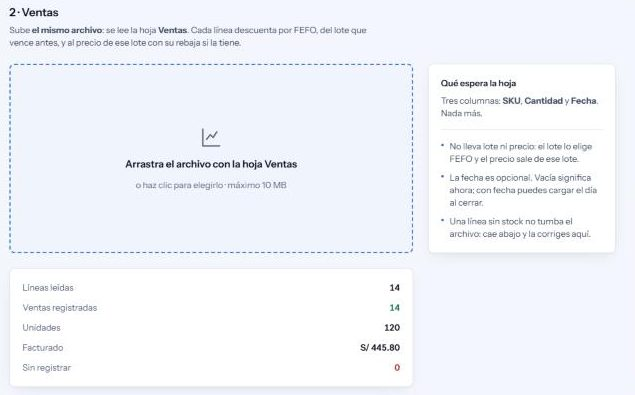
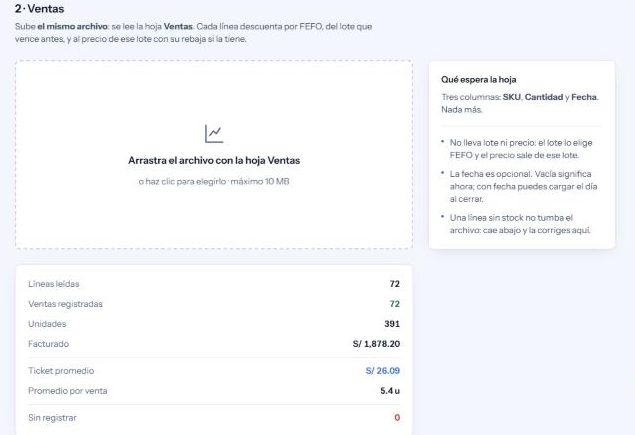
fix(demo): las ventas de ejemplo apuntaban a cinco SKU inexistentes
BEB-VOL-010, BEB-CIF-014, LAC-NES-011, LIC-CRI-004 y BEB-SCA-009 estaban en la hoja Ventas pero nunca se daban de alta en la de Inventario, asi que la carga entraba 67 de 72 y el evaluador veia cinco filas en cuarentena en su primer intento. Se sustituyen por los SKU reales a los que se parecen, de la misma familia y con stock de sobra.

El generador escribe las dos listas a mano y nada comprobaba que cuadraran. Ahora falla al generar si una venta apunta a un SKU que no existe o si la SUMA por SKU se pasa del stock -lo que agota un lote es el total de los cinco dias, no la venta mas grande-. Verificado introduciendo ambos errores a proposito.

Tamano del archivo en la pagina y captura del README, al dia.

diff --git a/src/main/resources/static/index.html b/src/main/resources/static/index.html
@@ -874,7 +874,7 @@
             </svg>
             Descargar un Excel de ejemplo
           </a>
-          <p class="mt-1 text-xs text-ink-faint">88 productos · 72 ventas en 8 familias · 16 KB</p>
+          <p class="mt-1 text-xs text-ink-faint">88 productos · 72 ventas en 8 familias · 14 KB</p>
         </div>
       </div>
 

diff --git a/tools/GenerateSampleInventory.java b/tools/GenerateSampleInventory.java
@@ -7,6 +7,8 @@ import java.nio.file.Files;
 import java.nio.file.Path;
 import java.time.LocalDate;
 import java.util.ArrayList;
+import java.util.LinkedHashMap;
+import java.util.Map;
 import java.util.List;
 import org.dhatim.fastexcel.Workbook;
 import org.dhatim.fastexcel.Worksheet;
@@ -405,7 +407,7 @@ public class GenerateSampleInventory {
         sales.add(new Sale("BEB-INC-001", 12, 3, true));
         sales.add(new Sale("BEB-INC-002", 5, 3, true));
         sales.add(new Sale("BEB-COC-003", 9, 3, true));
-        sales.add(new Sale("BEB-VOL-010", 6, 3, true));
+        sales.add(new Sale("BEB-GAT-010", 6, 3, true));
         sales.add(new Sale("SNK-PRI-008", 6, 3, true));
         sales.add(new Sale("SNK-DOR-003", 4, 3, true));
         sales.add(new Sale("LAC-GLO-001", 5, 3, true));
@@ -421,26 +423,26 @@ public class GenerateSampleInventory {
         // Hace 2 días
         sales.add(new Sale("BEB-INC-001", 10, 2, true));
         sales.add(new Sale("BEB-SMA-008", 5, 2, true));
-        sales.add(new Sale("BEB-CIF-014", 7, 2, true));
+        sales.add(new Sale("BEB-CIF-011", 7, 2, true));
         sales.add(new Sale("SNK-SUB-007", 7, 2, true));
         sales.add(new Sale("SNK-CAS-011", 5, 2, true));
         sales.add(new Sale("SNK-SOD-013", 6, 2, true));
         sales.add(new Sale("LAC-GLO-002", 4, 2, true));
-        sales.add(new Sale("LAC-NES-011", 3, 2, true));
+        sales.add(new Sale("LAC-GLO-008", 3, 2, true));
         sales.add(new Sale("EMB-BRA-003", 2, 2, true));
         sales.add(new Sale("EMB-SFE-005", 2, 2, true));
         sales.add(new Sale("PAN-BIM-001", 2, 2, true));
         sales.add(new Sale("PAN-BIM-006", 3, 2, true));
         sales.add(new Sale("ABA-COS-001", 8, 2, true));
         sales.add(new Sale("ABA-ALA-009", 4, 2, true));
-        sales.add(new Sale("LIC-CRI-004", 8, 2, true));
+        sales.add(new Sale("LIC-CRI-005", 8, 2, true));
         sales.add(new Sale("LIM-DOV-004", 4, 2, true));
 
         // Ayer
         sales.add(new Sale("BEB-INC-001", 14, 1, true));
         sales.add(new Sale("BEB-COC-003", 10, 1, true));
         sales.add(new Sale("BEB-COC-004", 4, 1, true));
-        sales.add(new Sale("BEB-SCA-009", 8, 1, true));
+        sales.add(new Sale("BEB-SPO-009", 8, 1, true));
         sales.add(new Sale("SNK-TRI-009", 6, 1, true));
         sales.add(new Sale("SNK-PEP-012", 4, 1, true));
         sales.add(new Sale("LAC-GLO-001", 6, 1, true));
@@ -507,6 +509,7 @@ public class GenerateSampleInventory {
                 rowIdx++;
             }
 
+            verificarVentasContraInventario(items, sampleSales());
             writeSalesSheet(workbook, today);
 
             workbook.finish();
@@ -521,6 +524,55 @@ public class GenerateSampleInventory {
      * modo que mientras Inventario sea la primera, la ingesta de inventario no
      * nota que este libro trae una hoja mas. La de ventas se pide por nombre.
      */
+    /**
+     * Comprueba que cada venta se puede atender con lo que siembra Inventario.
+     *
+     * <p><b>Por que existe.</b> Las dos listas se escriben a mano y viven a 300
+     * lineas de distancia: es facil teclear un SKU que no existe -o repetir uno
+     * hasta pasarse de su stock- y que el archivo salga igual de bien formado.
+     * El fallo no aparece aqui sino en la demo del evaluador, como filas en
+     * cuarentena, que es el peor sitio donde puede aparecer.
+     *
+     * <p>Ya paso: cinco ventas apuntaban a SKU que nadie daba de alta
+     * (BEB-VOL-010, BEB-CIF-014, LAC-NES-011, LIC-CRI-004, BEB-SCA-009) y la
+     * carga entraba 67 de 72.
+     *
+     * <p>Se comprueba la SUMA por SKU y no cada linea: lo que agota un lote es
+     * el total de los cinco dias, no la venta mas grande.
+     */
+    private static void verificarVentasContraInventario(List<Item> items, List<Sale> sales) {
+        Map<String, Integer> stock = new LinkedHashMap<>();
+        for (Item it : items) {
+            stock.merge(it.sku(), it.qty(), Integer::sum);
+        }
+
+        Map<String, Integer> pedido = new LinkedHashMap<>();
+        for (Sale s : sales) {
+            pedido.merge(s.sku(), s.qty(), Integer::sum);
+        }
+
+        List<String> problemas = new ArrayList<>();
+        for (Map.Entry<String, Integer> e : pedido.entrySet()) {
+            Integer hay = stock.get(e.getKey());
+            if (hay == null) {
+                problemas.add("  " + e.getKey() + ": se vende pero no esta en Inventario");
+            } else if (e.getValue() > hay) {
+                problemas.add("  " + e.getKey() + ": se venden " + e.getValue()
+                        + " y solo hay " + hay);
+            }
+        }
+
+        if (!problemas.isEmpty()) {
+            throw new IllegalStateException(
+                    "La hoja Ventas no cuadra con la de Inventario:\n"
+                            + String.join("\n", problemas)
+                            + "\nCorrigelo aqui: en la demo saldria como filas en cuarentena.");
+        }
+
+        System.out.println("OK: las " + sales.size() + " ventas caben en el stock de "
+                + pedido.size() + " productos distintos.");
+    }
+
     private static void writeSalesSheet(Workbook workbook, LocalDate today) {
         List<String> headers = List.of("SKU", "Cantidad", "Fecha");
 

diff --git a/README.md b/README.md
@@ -120,7 +120,7 @@ Por eso la misma plantilla trae dos hojas:
 | **Inventario** | Crea los lotes | SKU, producto, categoría, costo, precio, lote, vencimiento, cantidad |
 | **Ventas** | Los descuenta por FEFO | **SKU, Cantidad, Fecha** |
 
-![La pestaña de Excel con la sección de ventas: el área para soltar el archivo, lo que espera la hoja, y el resumen de 14 ventas registradas por 120 unidades y S/ 445.80](docs/img/ventas-por-excel.jpg)
+![La pestaña de Excel con la sección de ventas: el área para soltar el archivo, lo que espera la hoja, y el resumen de 72 ventas registradas por 391 unidades y S/ 1.878,20, con un ticket promedio de S/ 26,09](docs/img/ventas-por-excel.jpg)
 
 **Las tres columnas que faltan son la parte interesante.** La hoja de ventas no
 pide lote ni precio. El lote lo elige el motor FEFO —del más próximo a vencer al
